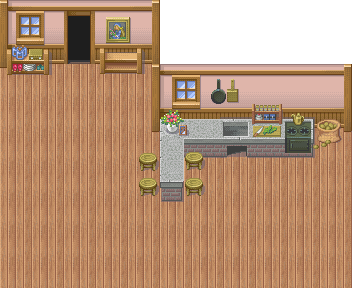
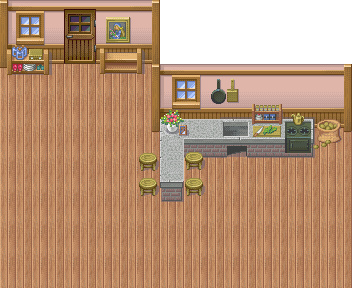
Smooth trans-map-teleport

Changed region(s): [[0.1562, 0.0312, 0.2812, 0.25]]

diff --git a/src/main.js b/src/main.js
@@ -6,6 +6,6 @@ function teleport(e, x, y, bumpPos)
 
 function teleportMap(x, y, map, bumpPos)
 {
-	game.setWorld(map);
-	teleport(game.player, x, y, bumpPos);
+	game.fadeTo(1.0, 0.05);
+	game.actionOnFade = "function() {game.setWorld('" + map + "'); teleport(game.player, " + x + ", " + y + ", " + bumpPos + ");game.fadeTo(0, 0.05);}";
 }

diff --git a/src/de/dakror/liturfaliarcest/settings/CFG.java b/src/de/dakror/liturfaliarcest/settings/CFG.java
@@ -4,7 +4,7 @@ import java.util.Arrays;
 
 public class CFG
 {
-	public static final String[] TILES = { "Beach01.png", "Bridge01.png", "Castle01.png", "Castle02.png", "Castle03.png", "CastleTown01.png", "CastleTown02.png", "Cave01.png", "Cave02.png", "Cave03.png", "Cave04.png", "Church01.png", "Church02.png", "DarkSpace01.png", "Desert01.png", "DesertTown01.png", "DesertTown02.png", "EvilCastle01.png", "EvilCastle02.png", "FarmVillage01.png", "FarmVillage02.png", "Forest01.png", "ForestTown01.png", "ForestTown02.png", "Fort01.png", "Fort02.png", "Grassland01.png", "Heaven01.png", "Heaven02.png", "InnerBody01.png", "Mine01.png", "MineTown01.png", "MineTown02.png", "Mountain01.png", "PortTown01.png", "PortTown02.png", "PostTown01.png", "PostTown02.png", "Ruins01.png", "Sewer01.png", "Ship01.png", "Ship02.png", "Shop01.png", "Snowfield01.png", "SnowTown01.png", "SnowTown02.png", "Swamp01.png", "Tower01.png", "Tower02.png", "Woods01.png" };
+	public static final String[] TILES = { "Beach01.png", "Bridge01.png", "Castle01.png", "Castle02.png", "Castle03.png", "CastleTown01.png", "CastleTown02.png", "Cave01.png", "Cave02.png", "Cave03.png", "Cave04.png", "Church01.png", "Church02.png", "DarkSpace01.png", "Desert01.png", "DesertTown01.png", "DesertTown02.png", "Door01.png", "EvilCastle01.png", "EvilCastle02.png", "FarmVillage01.png", "FarmVillage02.png", "Forest01.png", "ForestTown01.png", "ForestTown02.png", "Fort01.png", "Fort02.png", "Grassland01.png", "Heaven01.png", "Heaven02.png", "InnerBody01.png", "Mine01.png", "MineTown01.png", "MineTown02.png", "Mountain01.png", "PortTown01.png", "PortTown02.png", "PostTown01.png", "PostTown02.png", "Ruins01.png", "Sewer01.png", "Ship01.png", "Ship02.png", "Shop01.png", "Snowfield01.png", "SnowTown01.png", "SnowTown02.png", "Swamp01.png", "Tower01.png", "Tower02.png", "Woods01.png" };
 	
 	static long time = 0;
 	

diff --git a/src/de/dakror/liturfaliarcest/game/UpdateThread.java b/src/de/dakror/liturfaliarcest/game/UpdateThread.java
@@ -1,6 +1,7 @@
 package de.dakror.liturfaliarcest.game;
 
 import de.dakror.gamesetup.Updater;
+import de.dakror.liturfaliarcest.util.JSInvoker;
 
 public class UpdateThread extends Updater
 {
@@ -9,5 +10,12 @@ public class UpdateThread extends Updater
 	
 	@Override
 	public void update()
-	{}
+	{
+		if (Game.currentGame.alpha == 1)
+		{
+			if (Game.currentGame.actionOnFade != null) JSInvoker.invoke(Game.currentGame.actionOnFade);
+			Game.currentGame.actionOnFade = null;
+			
+		}
+	}
 }

diff --git a/src/de/dakror/liturfaliarcest/util/JSInvoker.java b/src/de/dakror/liturfaliarcest/util/JSInvoker.java
@@ -32,7 +32,7 @@ public class JSInvoker
 			engine.put("p" + i, params[i]);
 		}
 		
-		p = p.substring(0, p.length() - 1);
+		if (p.length() > 0) p = p.substring(0, p.length() - 1);
 		
 		try
 		{

diff --git a/src/de/dakror/liturfaliarcest/game/Game.java b/src/de/dakror/liturfaliarcest/game/Game.java
@@ -17,6 +17,8 @@ public class Game extends GameFrame
 	
 	public static HashMap<String, World> worlds;
 	
+	public String actionOnFade;
+	
 	public Game()
 	{
 		currentGame = this;
